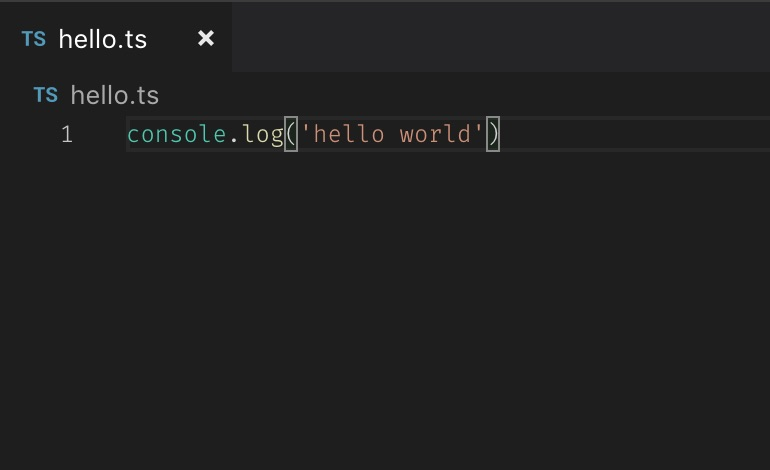
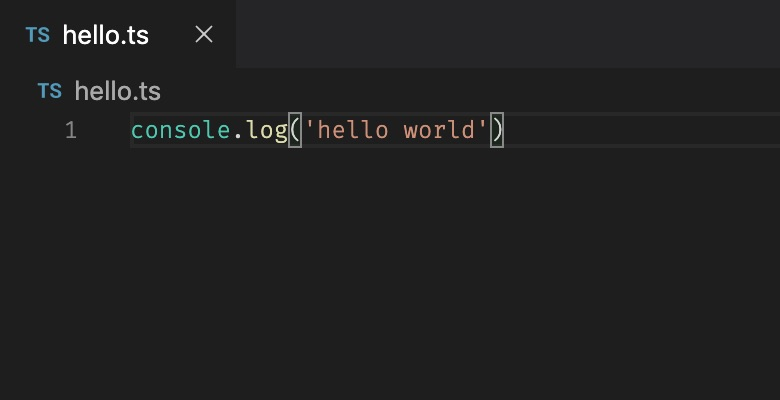
Update the example images to better fit 1.91:1 ratio

diff --git a/example/src/templates/BlogPost.tsx b/example/src/templates/BlogPost.tsx
@@ -86,7 +86,7 @@ export default class BlogPostTemplate extends React.PureComponent<IProps> {
       // This is the image specified in the markdown images-block (and first one of that list)
       // Not optimized so don't use 2 MB images
       if (markdownRemark.frontmatter.images && markdownRemark.frontmatter.images.length > 0) {
-        return markdownRemark.frontmatter.images[0]
+        return markdownRemark.frontmatter.images[0].publicURL
       }
       // If all else fails use the site image
       return site.siteMetadata.image

diff --git a/example/content/blog/00-hello-world/hello-world.md b/example/content/blog/00-hello-world/hello-world.md
@@ -1,6 +1,6 @@
 ---
 datePublished: 2020-01-20
-dateModified: 2020-01-20
+dateModified: 2020-02-01
 title: Hello World!
 description: My first blog post!
 slug: hello-world
@@ -13,6 +13,10 @@ images:
 ---
 
 Hello there!
+
+You should pay close attention to the dimensions of your image, the 1.91:1 ratio is no joke and you should follow it. Otherwise images such as this get cropped weirdly.
+
+Funny thing also that .png images don't work with gatsby-plugin-sharp. I have no idea but they just don't.
 
 <img src="./hello-world.jpg" alt="Hello world in TypeScript." />
 
